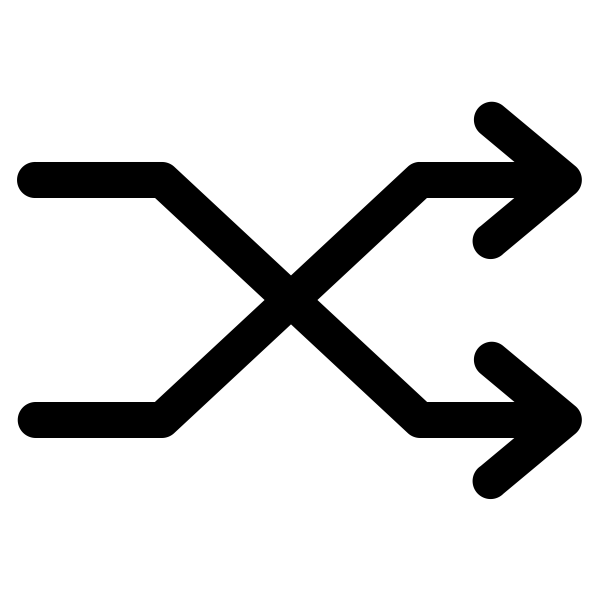
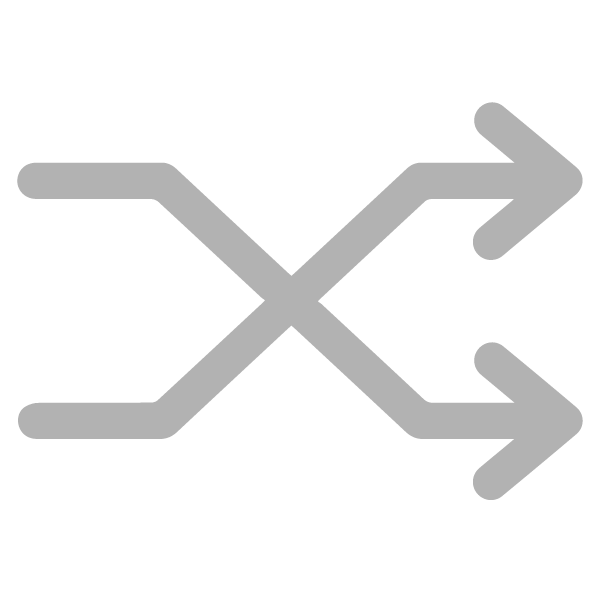
Refactor PlaybackService
- Shuffle 버튼 기능 정상화
- PlaybackService가 더이상 Event를 참조하지 않도록 수정
- 변경된 디자인 반영

Changed region(s): [[0.03, 0.1508, 0.9884, 0.8442]]

diff --git a/src/FXML/layout.css b/src/FXML/layout.css
@@ -10,7 +10,7 @@
 }
 
 /* Player */
-#infoBackground, #playerBackground{
+#infoBackground, #playerBackground {
     -fx-background-color: mintcream;
 }
 
@@ -77,12 +77,4 @@
 #aboutBtn {
     -fx-background-image: url("../img/dots.png");
     -fx-background-size: 20px 20px;
-}
-
-/* 프로그레스바 색 변경 */
-
-#volumeSlider {
-}
-
-#timeSlider {
 }

diff --git a/src/Service/PlaybackService.java b/src/Service/PlaybackService.java
@@ -79,8 +79,17 @@ public class PlaybackService implements IPlaybackService {
     @Override
     public void playPrevMusic() {
         if ((playback.getCurrentTime().toSeconds() / playback.getMedia().getDuration().toSeconds()) < 0.2) {
-            if (index > 0 && repeatMode != REPEAT_ONLY) index--;
-            else if (repeatMode == REPEAT_ALL) index = players.size() - 1;
+            switch (repeatMode) {
+                case REPEAT_ALL:
+                    if (index == 0) index = players.size() - 1;
+                    else index = (index - 1) % players.size();
+                    break;
+                case REPEAT_ONLY:
+                    break;
+                default:
+                    if (index - 1 > 0) index--;
+                    else System.out.println("This is front");
+            }
             stop();
             playback = players.get(index);
             isPlaying = false;
@@ -111,7 +120,6 @@ public class PlaybackService implements IPlaybackService {
                         imageService.btnImage(btnPlay, "/img/pause.png", 30, 30);
                         addPlays();
                         mps = new Thread(() -> {
-                            // progress 가져오기
                             while (isPlaying) {
                                 try {
                                     Thread.sleep(300);
@@ -233,21 +241,15 @@ public class PlaybackService implements IPlaybackService {
          * 토글 처리
          * */
         // 셔플로 바뀐 경우, 현재 음악 제외, 모두 섞고 현재 음악은 컬렉션 앞에 추가
-        if (!shuffle) {
+        shuffle = !shuffle;
+        if (shuffle) {
             players.remove(playback);
             Collections.shuffle(players);
             players.add(0, playback);
             queueProcess();
         }
         imageService.btnImage(btnShuffle, shuffle ? "/img/shuffle.png" : "/img/no_shuffle.png", 30, 30);
-        shuffle = !shuffle;
     }
-
-
-    //추가 코드
-    public void setPlaylist(Event event){
-
-   }
 
     @Override
     public void getInfoInstance(Parent parent) {
@@ -298,26 +300,28 @@ public class PlaybackService implements IPlaybackService {
      * 셔플 버튼이 눌리는 경우, 셔플 후 발동
      */
     private void queueProcess() {
-        musicList.setItems(FXCollections.observableArrayList());
-        musicList.setOnMouseClicked(event -> {
-            MusicInfo info = musicList.getSelectionModel().getSelectedItem();
-            for (int i = 0; i < players.size(); i++) {
-                MediaPlayer player = players.get(i);
-                if (idMap.get(player) == info.getId()) {
-                    index = i;
-                    stop();
-                    currentMusicInfo = dataManager.getMusicInfo(idMap.get(player));
-                    infoProcess();
-                    playback = player;
-                    isPlaying = false;
-                    play();
+        if (musicList != null) {
+            musicList.setItems(FXCollections.observableArrayList());
+            musicList.setOnMouseClicked(event -> {
+                MusicInfo info = musicList.getSelectionModel().getSelectedItem();
+                for (int i = 0; i < players.size(); i++) {
+                    MediaPlayer player = players.get(i);
+                    if (idMap.get(player) == info.getId()) {
+                        index = i;
+                        stop();
+                        currentMusicInfo = dataManager.getMusicInfo(idMap.get(player));
+                        infoProcess();
+                        playback = player;
+                        isPlaying = false;
+                        play();
+                    }
                 }
-            }
-        });
-        players.forEach(mediaPlayer -> {
-            MusicInfo info = dataManager.getMusicInfo(idMap.get(mediaPlayer));
-            musicList.getItems().add(info);
-        });
+            });
+            players.forEach(mediaPlayer -> {
+                MusicInfo info = dataManager.getMusicInfo(idMap.get(mediaPlayer));
+                musicList.getItems().add(info);
+            });
+        }
     }
 
     @Override

diff --git a/src/Controller/PlayerController.java b/src/Controller/PlayerController.java
@@ -7,16 +7,12 @@ import Service.PlaybackService;
 import javafx.event.ActionEvent;
 import javafx.fxml.Initializable;
 import javafx.scene.Parent;
-import javafx.scene.control.Button;
 import javafx.scene.input.MouseEvent;
 
 import java.net.URL;
 import java.util.ResourceBundle;
 
 public class PlayerController extends AbstractController implements Initializable {
-
-
-
     IPlaybackService playbackService;
     InfoController infoController;
     Parent root;
@@ -27,11 +23,11 @@ public class PlayerController extends AbstractController implements Initializabl
     }
 
 
-    public void play(ActionEvent event) {// 플레이 버튼 구현
+    public void play() {// 플레이 버튼 구현
         playbackService.play();
     }
 
-    public void next(ActionEvent event) {
+    public void next() {
         playbackService.playNextMusic();
         if (infoController != null) infoController.updateForm();
     }
@@ -39,7 +35,6 @@ public class PlayerController extends AbstractController implements Initializabl
     public void shuffle(ActionEvent event) {
         playbackService.setShuffle(event);
     }
-
 
 
     public void repeat(ActionEvent event) {
@@ -67,7 +62,7 @@ public class PlayerController extends AbstractController implements Initializabl
         playbackService.getPlaybackInstance(root);
     }
 
-    public void prev(ActionEvent event) {
+    public void prev() {
         playbackService.playPrevMusic();
         if (infoController != null) infoController.updateForm();
     }

diff --git a/src/Service/MusicInfo.java b/src/Service/MusicInfo.java
@@ -20,7 +20,6 @@ public class MusicInfo {
                      int track, int year,
                      String title, String artist, String album,
                      String lyrics) {
-        //생성자
         this.id = id;
         this.track = track;
         this.year = year;
@@ -29,12 +28,9 @@ public class MusicInfo {
         this.album = album;
         this.lyrics = lyrics;
         String imgurl = "../resources/albumart/" + id + ".jpg";
-        //이미지 절대경로
         try {
             if (getClass().getResource(imgurl) != null)
-                //imgurl의 정보를 받음 널이 아니라면 처리
                 this.albumart = new Image(getClass().getResource(imgurl).toURI().toURL().toString());
-            //?
         } catch (MalformedURLException | URISyntaxException e) {
             e.printStackTrace();
         }
@@ -42,11 +38,11 @@ public class MusicInfo {
 
     public Image getAlbumart() {
         return albumart;
-    } //앨범아트 정보 반환
+    }
 
     @Override
     public String toString() {
-        return this.getTitle() +" - " + this.getArtist();
+        return this.getTitle() + " - " + this.getArtist();
     }
 
     public int getTrack() {
@@ -60,7 +56,6 @@ public class MusicInfo {
     public String getTitle() {
         return title != null ? title : "N/A";
     }
-    //널이 아니라면 타이틀 리턴 , 널이라면 N/A 리턴
 
     public String getArtist() {
         return artist != null ? artist : "N/A";

diff --git a/src/Controller/InfoController.java b/src/Controller/InfoController.java
@@ -4,26 +4,16 @@ import Service.CommonService;
 import Service.ICommonService;
 import Service.IPlaybackService;
 import javafx.event.ActionEvent;
-import javafx.fxml.FXML;
 import javafx.fxml.Initializable;
 import javafx.scene.Parent;
-import javafx.scene.control.Button;
-import javafx.scene.control.ToggleButton;
 
 import java.net.URL;
 import java.util.ResourceBundle;
 
 public class InfoController extends AbstractController implements Initializable {
-    //
     Parent root;
     ICommonService comServ;
     IPlaybackService playbackService;
-    @FXML
-    Button setBtn;
-    @FXML
-    ToggleButton likeBtn;
-    @FXML
-    Button aboutBtn;
 
     @Override
     public void initialize(URL location, ResourceBundle resources) {

diff --git a/src/Controller/AbstractController.java b/src/Controller/AbstractController.java
@@ -3,14 +3,14 @@ package Controller;
 import javafx.scene.Parent;
 
 public abstract class AbstractController {
-    public abstract void setRoot(Parent root);
-
     // 0508 add
-    public void setText(String name, String id, String song) {}
+    public void setText(String name, String id, String song) {
+    }
 
     // add to musicPlayer
     public Parent getRoot() {
         return null;
-        //오버라이딩을 위한 선언
     }
+
+    public abstract void setRoot(Parent root);
 }

diff --git a/src/Service/IPlaybackService.java b/src/Service/IPlaybackService.java
@@ -6,13 +6,11 @@ import javafx.scene.Parent;
 public interface IPlaybackService {
     /**
      * TODO: 이전 음악 재생
-     *
      */
     void playPrevMusic();
 
     /**
      * TODO: 재생
-     *
      */
     void play();
 
@@ -29,7 +27,6 @@ public interface IPlaybackService {
 
     /**
      * TODO: 다음 음악 재생
-     *
      */
     void playNextMusic();
 
